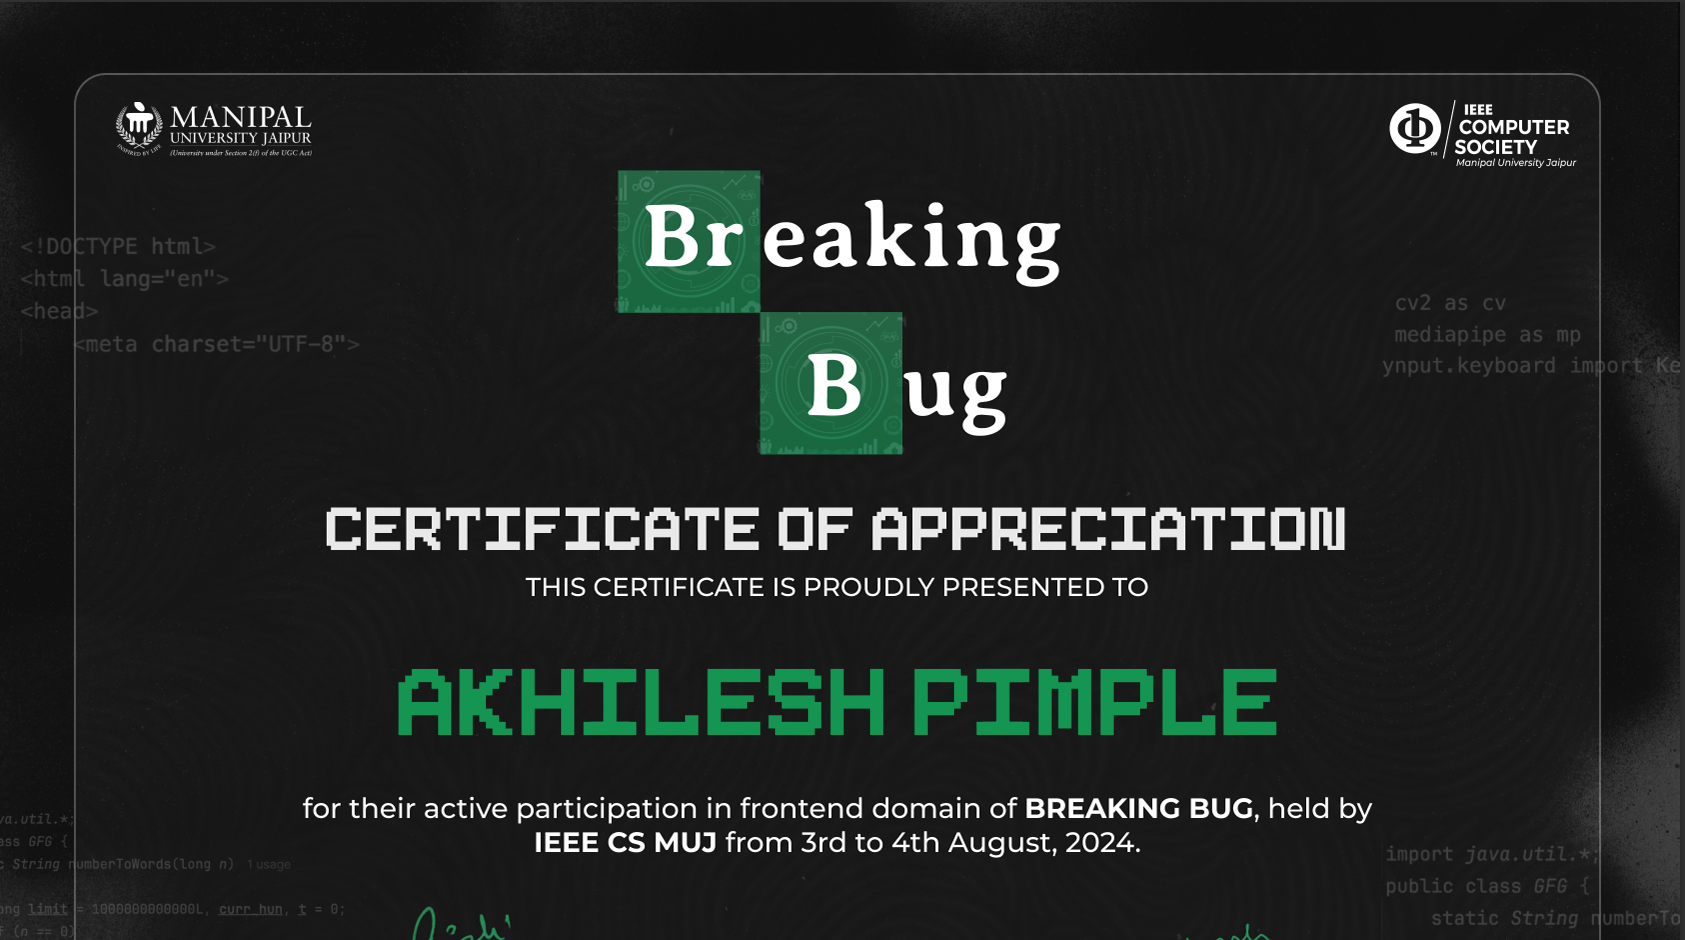
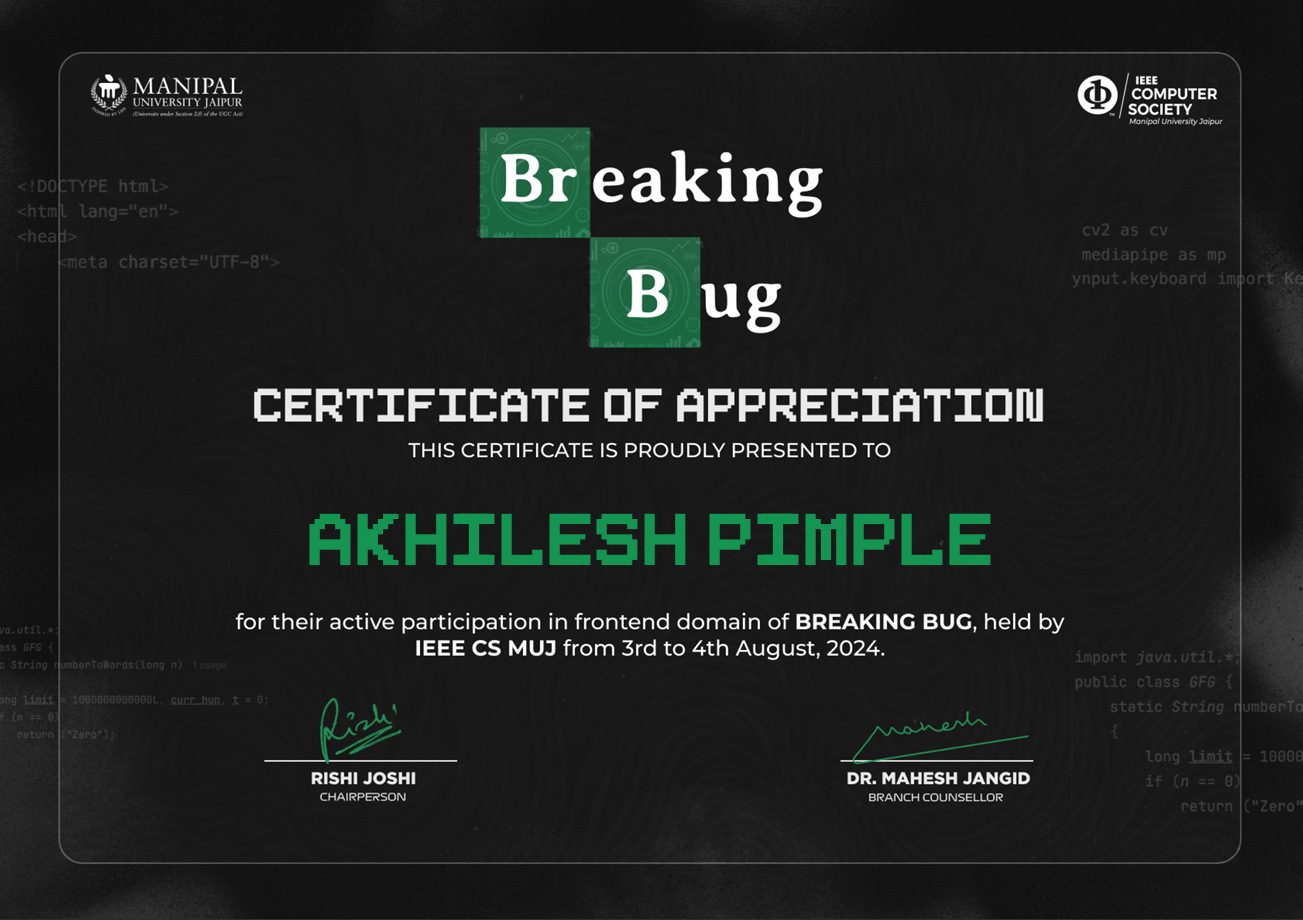
inserted myself image in home.jsx

diff --git a/frontend/src/components/Home.jsx b/frontend/src/components/Home.jsx
@@ -6,12 +6,15 @@ import p2i1 from "../assets/p2i1.png";
 import cpp from "../assets/cpp.png";
 import github from "../assets/github.png";
 import c from "../assets/c.png";
-import certi1 from "../assets/cz.png";
+// import certi1 from "../assets/cz.png";
 import certi2 from "../assets/dc.png";
 import certi3 from "../assets/isa.jpg";
 import mern from "../assets/MERN-logo.png"
 import call from "../assets/call.png"
 import mail from "../assets/mail.png"
+import BB from "../assets/BB.png"
+import ISIH from "../assets/ISIH.png"
+import myself from "../assets/myself.png"
 
 
 const Home = () => {
@@ -99,7 +102,7 @@ const Home = () => {
     <div className="scroll-smooth bg-[#263798]">
       <div className="flex flex-col justify-center items-center h-auto pt-10">
         <img
-          src={proimg}
+          src={myself}
           className="sm:w-[25%] w-[30%] lg:w-[15%] my-4"
           alt=""
         />
@@ -266,13 +269,13 @@ const Home = () => {
 
             <div className="flex justify-center content-center">
               <div className="mx-4 py-2 px-2  my-2 transition-all duration-500 hover:-translate-y-2 hover:shadow-md hover:shadow-slate-300">
-                <img src={certi1} alt="" onClick={() => { c1() }} className="w-[20rem] bg-slate-800 " />
+                <img src={BB} alt="" onClick={() => { c1() }} className="w-[20rem] bg-slate-800 " />
                 <div className="text-md text-justify font-bold max-w-[20rem] font-mono my-2 text-[#EEAA74]">{text1}
                 </div>
               </div>
 
               <div className="mx-4 py-2 px-2 my-2 transition-all duration-500 hover:-translate-y-2 hover:shadow-md hover:shadow-slate-300">
-                <img src={certi2} alt="" onClick={() => { c2() }} className="w-[20rem] bg-slate-800 " />
+                <img src={ISIH} alt="" onClick={() => { c2() }} className="w-[20rem] bg-slate-800 " />
                 <div className="text-md text-justify font-bold max-w-[20rem] font-mono my-2 text-[#EEAA74]">{text2}
                 </div>
               </div>
